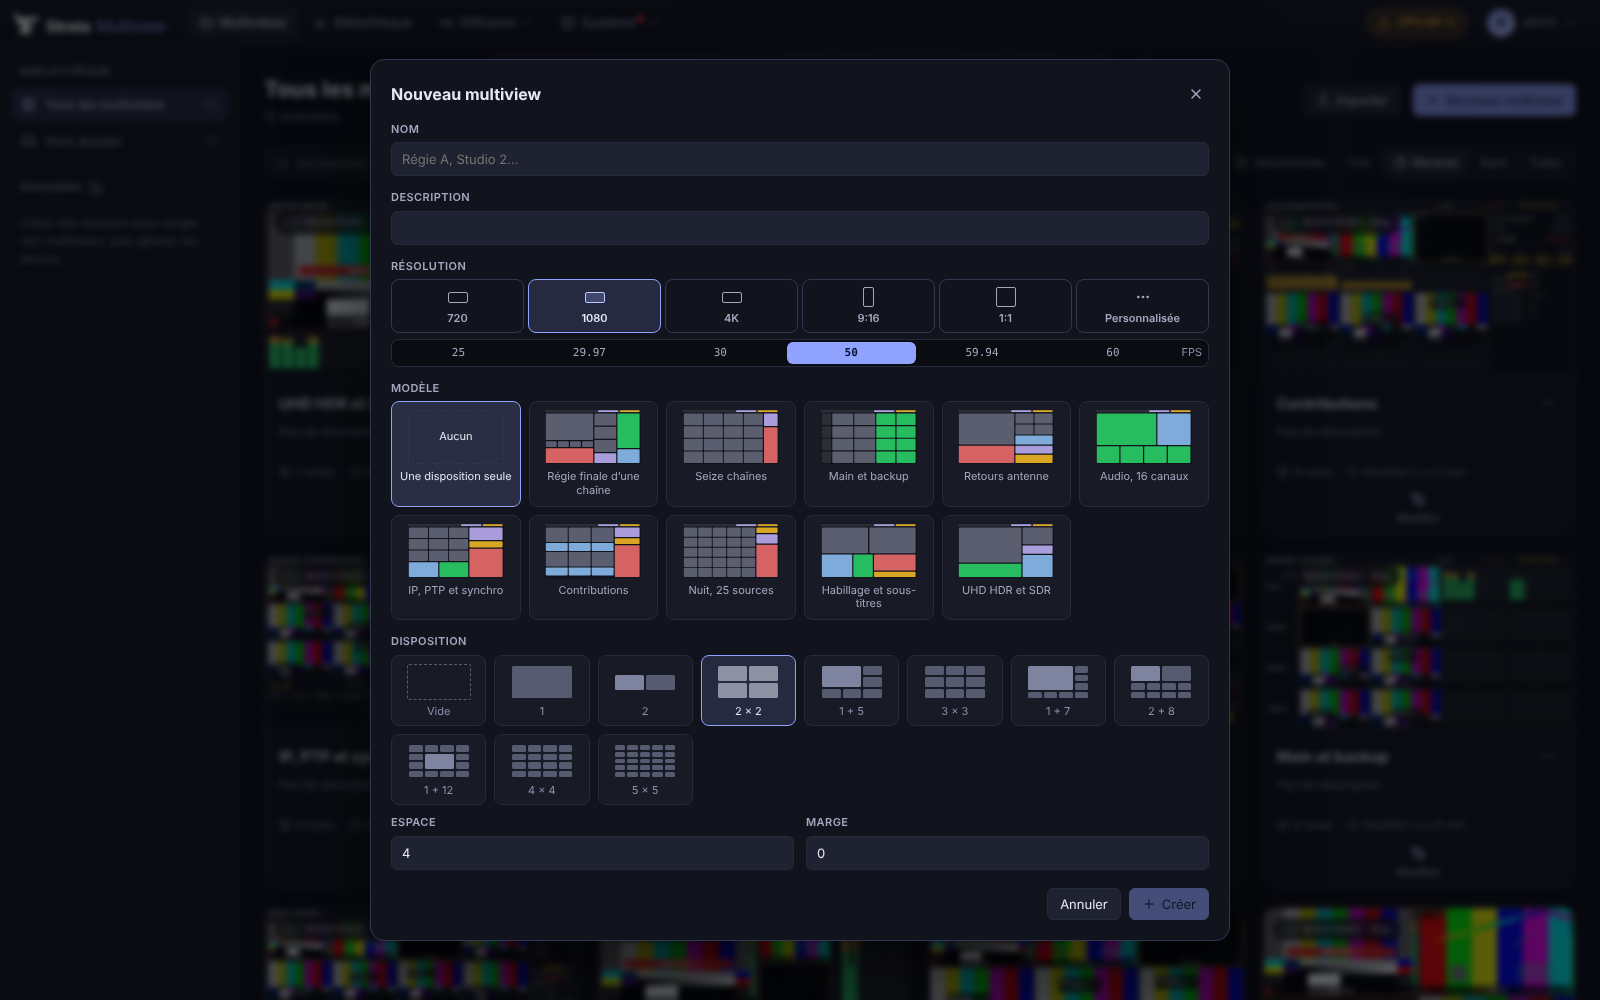
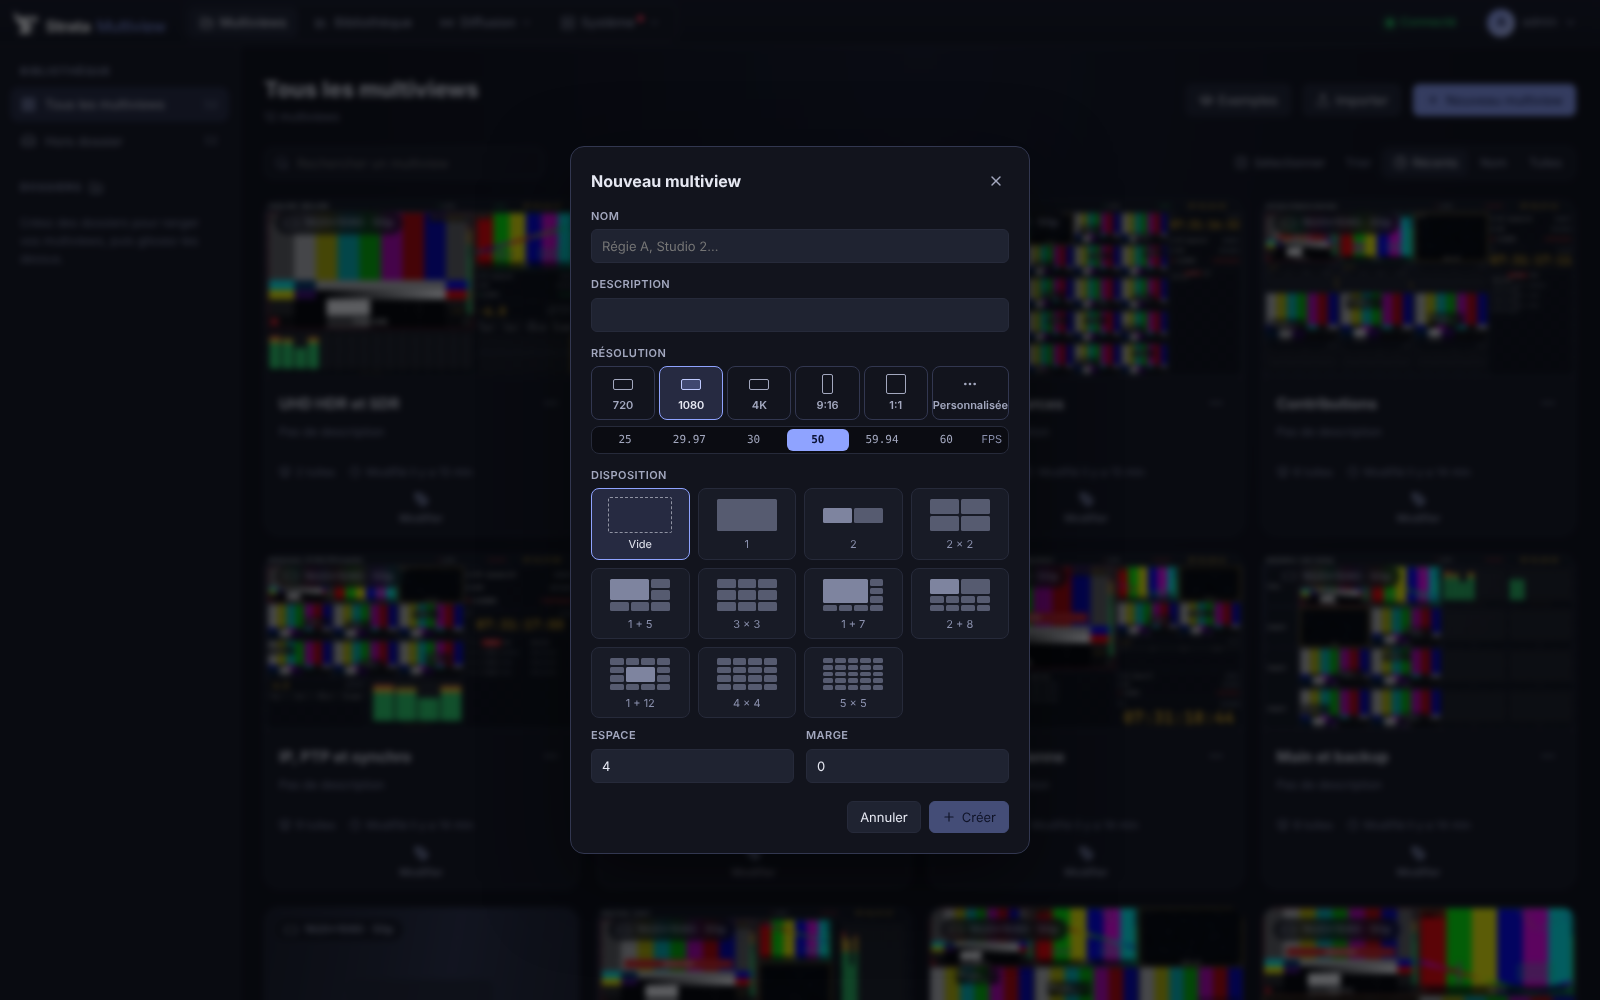
Docs: examples, the input submenu, the contents of the inputs
Claude-Session: https://claude.ai/code/session_01YNigYBVkBUfYF1kZKq6KJ5

diff --git a/README.md b/README.md
@@ -37,9 +37,9 @@ Strata Multiview reprend le design, le Designer et le moteur de rendu de Strata 
  Designer ──► multiviews publiés ──► chaîne ──► sorties (HTML5 · NDI · Stream · SDI · ST 2110)
 ```
 
-- Les **entrées en direct** sont décodées en continu ; leur audio est mesuré canal par canal et en loudness EBU R128 ; leur image est surveillée (noir, image figée) ; une entrée qui tombe lève une alarme.
+- Les **entrées en direct** sont décodées en continu, et **analysées** : conteneur, programmes et EPG, codecs, images, timecode, sous-titres codés, tables MPEG-TS et TR 101 290, listes HLS, ANC SDI ; leur audio est mesuré canal par canal et en loudness EBU R128 ; leur image est surveillée (noir, image figée) ; une entrée qui tombe lève une alarme.
 - Le **tally** et les **UMD** viennent des mélangeurs et des contrôleurs de tally, aiguillés vers les entrées.
-- Le **Designer** compose les multiviews : un des **dix modèles** de régie de diffusion ou une **disposition** (2 × 2, 3 × 3, 1 + 5…) de **tuiles Source**, puis les widgets de supervision (vu-mètres 16 canaux, loudness, timecode, état, journal des alarmes), des horloges, des logos et des textes.
+- Le **Designer** compose les multiviews : vide, sur une **disposition** (2 × 2, 3 × 3, 1 + 5…) de **tuiles Source**, ou à partir d'un des **dix exemples** de régie de diffusion, puis les widgets de supervision (vu-mètres 16 canaux, loudness, timecode, état, journal des alarmes), des horloges, des logos et des textes.
 - Une **chaîne** montre un multiview publié et l'envoie vers ses destinations.
 
 ### 1.2 Les pages
@@ -96,7 +96,7 @@ Guide complet, dossiers de données, pare-feu, proxy : [`docs/INSTALL.md`](docs/
 
 1. Ouvrez `http://<serveur>:8090`. Sur le serveur lui-même, la page propose de **créer le compte administrateur** ; à distance, utilisez `strata-mv-server user add admin`.
 2. **Diffusion › Entrées vidéo** : déclarez les sources (caméras en SDI, flux SRT d'un encodeur, sources NDI du réseau…).
-3. **Multiviews › Nouveau multiview** : nommez-le, choisissez sa résolution puis un **modèle** (régie finale, 16 chaînes, retours antenne…) ou une simple **disposition** (2 × 2, 1 + 5, 4 × 4…). Les tuiles et les widgets sont créés, les tuiles reçoivent les entrées dans l'ordre, et le multiview s'ouvre dans le **Designer**.
+3. **Multiviews › Nouveau multiview** : nommez-le, choisissez sa résolution, partez d'une page **vide** ou d'une **disposition** (2 × 2, 1 + 5, 4 × 4…) dont les tuiles reçoivent les entrées dans l'ordre. Le multiview s'ouvre dans le **Designer**. Pour partir d'un multiview de régie complet : **Multiviews › Exemples**.
 4. Ajustez les tuiles (entrée, UMD, vu-mètres, timecode, loudness), ajoutez des widgets, un logo, un titre, puis **Publiez**.
 5. **Diffusion › Flux vidéo** : choisissez le **multiview à l'antenne** de la chaîne : il passe aussitôt à l'antenne. Ajoutez les destinations (HTML5, NDI, SDI, ST 2110, flux).
 6. **Diffusion › Tally et UMD** : ajoutez la régie (TSL, ATEM ou GPI) et reliez ses afficheurs aux entrées.
@@ -114,18 +114,20 @@ La sortie HTML5 de la chaîne principale est sur `http://<serveur>:8090/output/m
 ### 4.1 L'espace de travail
 
 - **En haut** : le nom du multiview, annuler / rétablir, l'historique des versions et **Publier**.
-- **Au centre** : la **scène** (règles, repères, zones de sécurité, fond) avec la barre d'outils : **Disposition**, **Source** (une tuile), les formes et les textes, **+** (vu-mètres, loudness, timecode, état, journal des alarmes, bandeau, horloge, temps), **Affichage**, zoom. Les tuiles y montrent les entrées en direct, leur tally et leurs vu-mètres. Un clic sélectionne, un glisser déplace ; clic droit : copier, couper, coller, dupliquer, ordre, supprimer.
+- **Au centre** : la **scène** (règles, repères, zones de sécurité, fond) avec la barre d'outils : **Disposition**, **Source** (une tuile), les formes et les textes, **+** (vu-mètres, loudness, timecode, état, journal des alarmes, bandeau, horloge, temps), **Affichage**, zoom. Les tuiles y montrent les entrées en direct, leur tally et leurs vu-mètres. Un clic sélectionne, un glisser déplace ; clic droit : **Entrée** (sur une tuile, des vu-mètres, un loudness ou un timecode : l'entrée à montrer, celles qui reçoivent marquées d'un point vert), copier, couper, coller, dupliquer, ordre, supprimer.
+
+![Clic droit sur une tuile : changer d'entrée](docs/screenshots/input-menu.png)
 - **À droite** : l'inspecteur de l'élément sélectionné ; sans sélection, le multiview lui-même (résolution, ses tuiles, ses réglages).
 
 Un multiview s'édite directement : une seule page, ni calques, ni timeline, ni animation. Ce qui bouge vient des sources (images, tally, vu-mètres, loudness, alarmes) et des widgets eux-mêmes (timecode, horloges, bandeau défilant).
 
-### 4.2 Modèles
+### 4.2 Exemples
 
-![Nouveau multiview : les modèles](docs/screenshots/new-multiview.png)
+![Les exemples](docs/screenshots/examples.png)
 
-**Nouveau multiview** propose dix modèles dessinés pour la **régie de diffusion** (pas de production). Chacun est un point de départ : tout y reste modifiable dans le Designer.
+Comme dans Strata Graphics, la page **Multiviews** propose des **Exemples** : dix multiviews dessinés pour la **régie de diffusion** (pas de production). **Ajouter à mes multiviews** en fait une copie, dont les tuiles prennent les entrées du serveur dans l'ordre, et l'ouvre dans le Designer : tout y reste modifiable. Un nouveau multiview, lui, part d'une page vide ou d'une disposition.
 
-| Modèle | Contenu |
+| Exemple | Contenu |
 | --- | --- |
 | **Régie finale d'une chaîne** | PGM (timecode, loudness, alarmes), PVW, playout A et B, quatre retours, 16 canaux audio, loudness, état, journal |
 | **Seize chaînes** | 4 × 4 chaînes avec leur loudness et leurs alarmes, l'état de l'installation et le journal |
@@ -138,13 +140,15 @@ Un multiview s'édite directement : une seule page, ni calques, ni timeline, ni 
 | **Habillage et sous-titres** | le programme avant et après habillage, son loudness, son audio et le journal |
 | **UHD HDR et SDR** | le programme UHD et sa conversion SDR, le loudness, 16 canaux, l'état de l'installation |
 
-Les modèles sont dessinés en 1920 × 1080 et mis à l'échelle de la résolution choisie ; leurs tuiles prennent les entrées dans l'ordre.
+Les exemples sont des fichiers `crates/strata-mv-server/examples/ex-NN-*.json` embarqués dans le serveur (1920 × 1080, 50 i/s) ; leurs tuiles lisent `{{input:N}}`, la N-ième entrée du serveur.
 
 ![Le modèle « Régie finale » rendu par le moteur Rust](docs/screenshots/model-final.png)
 
 ![Le modèle « Seize chaînes » : les entrées absentes montrent la mire](docs/screenshots/model-sixteen.png)
 
 ### 4.3 Dispositions
+
+![Nouveau multiview : vide ou une disposition](docs/screenshots/new-multiview.png)
 
 Une **disposition** place les tuiles Source sur une grille, avec un **espace** entre elles et une **marge** autour :
 
@@ -155,7 +159,7 @@ Une **disposition** place les tuiles Source sur une grille, avec un **espace** e
 | **2 + 8** | deux grandes en haut, huit petites en dessous |
 | **1 + 12** | une grande au centre, douze autour |
 
-Elle se choisit à la création d'un multiview (« Une disposition seule »), ou s'applique ensuite par le bouton **Disposition** : les tuiles existantes sont replacées dans l'ordre de lecture, les manquantes sont ajoutées avec les entrées qu'aucune tuile ne montre encore. Chaque tuile reste ensuite libre (position, taille, réglages).
+Elle se choisit à la création d'un multiview (« Vide » par défaut), ou s'applique ensuite par le bouton **Disposition** : les tuiles existantes sont replacées dans l'ordre de lecture, les manquantes sont ajoutées avec les entrées qu'aucune tuile ne montre encore. Chaque tuile reste ensuite libre (position, taille, réglages).
 
 ### 4.4 Les widgets
 
@@ -301,7 +305,28 @@ Quand aucun multiview n'est chargé, la chaîne envoie une **mire**. Une **avanc
 
 Les **entrées en direct** : SRT, UDP, RTMP, HLS, RTSP, toute URL lue par ffmpeg, **NDI** (sources découvertes sur le réseau) et **SDI** (DeckLink). Chaque entrée est décodée à la taille et à la cadence de la source, avec un tampon de lissage réglable ; la page montre une vignette, l'état, les images reçues et les pertes. Une entrée qui tombe se reconnecte seule.
 
-### 8.3 Matériel et synchronisation
+### 8.3 Contenu du signal
+
+![Contenu du signal : programmes et EPG](docs/screenshots/analysis-epg.png)
+
+Sous les vignettes, le **contenu du signal** de l'entrée choisie, quelle que soit sa source, rafraîchi toutes les deux secondes :
+
+| Onglet | Ce qu'on y lit |
+| --- | --- |
+| **Présentation** | conteneur et débit, vidéo, pistes audio, sous-titres et sous-titres codés, données, timecode, GOP, état TR 101 290, programme à l'antenne, SCTE-35, variantes HLS |
+| **Programmes et EPG** | chaque programme (service) : nom, fournisseur, type, en clair ou embrouillé (systèmes d'accès conditionnel), **EPG** en cours et suivant (titre, horaire, durée, résumé, genre, âge minimum, avancement), ses flux |
+| **Flux** | chaque flux et son PID : codec, profil et niveau (lus dans le SPS H.264 / HEVC), image (taille, rapport, cadence, balayage TFF/BFF/progressif, échantillonnage et profondeur, plage, couleurs, **HDR** PQ/HLG), sous-titres codés A/53, audio (fréquence, canaux, format), langue, débit, descripteurs (pages télétexte, sous-titres DVB, CEA-608/708, AC-3, audiodescription…) |
+| **Images** | types I / P / B, **GOP**, balayage, format décodé, **timecode** (SEI SMPTE 12-1 ou de GOP : il alimente aussi le timecode des tuiles), CC A/53, AFD, mastering display, MaxCLL/MaxFALL, et toutes les données annexes des images |
+| **Transport (TS)** | débit, TS id, réseau, heure du flux (TDT/TOT), tables vues (PAT, PMT, SDT, NIT, EIT, CAT), **TR 101 290** (priorités 1 et 2, SDT et EIT), chaque **PID** (contenu, débit, erreurs de continuité, PCR, embrouillage), **SCTE-35** (splice_insert, time_signal, segmentation, durée, sens) |
+| **HLS** | liste principale et ses **variantes** (débit, résolution, cadence, codecs, plage dynamique, groupes), rendus audio / sous-titres / CC, liste de médias (direct, EVENT ou VOD, segments, fenêtre, format TS ou fMP4, program date time, discontinuités, chiffrement, LL-HLS, marqueurs publicitaires) |
+| **NDI** | format, rapport d'image, balayage, timecode, audio, métadonnées XML de la source et des trames |
+| **SDI** | format, signal détecté (YCbCr 4:2:2 / RGB 4:4:4, profondeur), balayage, couleurs, HDR, timecode RP 188 / VITC, audio embarqué, **paquets auxiliaires** (ANC : DID/SDID, ligne, nature : CEA-708, AFD, SCTE-104, OP-47, timecode ATC…) |
+
+Les entrées **SRT, UDP et TCP** passent par un relais : un premier ffmpeg reçoit le flux tel quel, Strata lit son flux de transport au passage (tables, EPG, SCTE-35, TR 101 290) et le transmet au décodeur. Une entrée **HLS** est lue par ses listes de lecture et le dernier segment de sa première variante (relu à la demande, au plus toutes les 30 s). **RTMP** et **RTSP** n'ont pas de flux de transport : leur contenu vient du décodeur.
+
+![Contenu du signal : transport et TR 101 290](docs/screenshots/analysis-ts.png)
+
+### 8.4 Matériel et synchronisation
 
 - **SDI · DeckLink** : cartes détectées, rôle de chaque connecteur (sortie, entrée, référence).
 - **SMPTE ST 2110** : flux déclarés, interfaces, PTP.
@@ -335,7 +360,8 @@ La page **Système › API** documente toute l'API (OpenAPI 3.1, aussi sur `/api
 | `PUT` `DELETE` `POST` | `/api/projects/{id}/templates/{tid}` · `/publish` | multiviews, publication |
 | `GET` `PUT` | `/api/channels` · `/{id}/state` · `/{id}/project` · `/{id}/multiview` · `/{id}/preview.png` | chaînes, multiview à l'antenne, rendu du programme |
 | `GET` `PUT` `DELETE` | `/api/tally` · `/api/tally/config` · `/api/tally/inputs/{entrée}` · `/api/tally/gpi/{source}/{contact}/{on\|off}` | tally et UMD |
-| `GET` | `/api/inputs` · `/api/inputs/{id}/live.mjpeg` | entrées et leurs images |
+| `GET` | `/api/inputs` · `/api/inputs/{id}/live.mjpeg` · `/api/inputs/{id}/analysis` | entrées, leurs images et ce qu'elles transportent |
+| `GET` `POST` | `/api/examples` · `/api/examples/{id}` · `/api/examples/{id}/cover.png` | exemples de multiviews |
 | `GET` | `/api/outputs/status` · `/api/system/metrics` · `/api/health` | supervision |
 | `WS` | `/ws` · `/ws?channel={id}` | évènements temps réel (multiviews, chaînes ; signaux des entrées : niveaux, loudness, timecode, alarmes ; état PTP / NTP et journal) |
 

diff --git a/docs/ARCHITECTURE.md b/docs/ARCHITECTURE.md
@@ -61,8 +61,10 @@ Le serveur repose sur axum et tokio.
 
 - **Chaînes** : chaque chaîne a sa tâche d'horloge, son `ChannelState` et son thread de rendu. Charger un multiview (`PUT /api/channels/{id}/project`) met sa page publiée à l'antenne (`show_multiview`) ; une publication met à l'antenne des chaînes qui attendaient.
 - **Entrées** (`inputs.rs`) : un fil par entrée. Les flux passent par ffmpeg : l'image en RGBA sur sa sortie standard, l'audio de la première piste mesuré par `ebur128` puis `astats`, dont les valeurs sont lues dans son journal (`MeterLog`) ; une source sans audio est relancée sans mesure. NDI et SDI mesurent leur audio eux-mêmes (le loudness par la crate `ebur128`) ; NDI donne aussi son timecode.
+- **Contenu des entrées** (`probe/`) : ce que chaque entrée transporte, tenu à jour pendant qu'elle tourne (`Facts`) et lu par `GET /api/inputs/{id}/analysis`. Les flux SRT, UDP et TCP sont **relayés** : un premier ffmpeg (`-f data`) reçoit les octets, Strata les lit au passage (`probe/ts.rs` : PAT, PMT et descripteurs, SDT, NIT, EIT en cours / suivant, TDT/TOT, SCTE-35, SPS H.264/HEVC, débit, continuité, PCR et embrouillage de chaque PID, contrôles TR 101 290) puis les passe au ffmpeg qui décode. Ce dernier décrit l'entrée à son ouverture (`probe/banner.rs`) et chaque image par le filtre `showinfo` (`probe/frames.rs` : I/P/B, GOP, balayage, couleurs, données annexes, timecode SEI ou de GOP, qui alimente aussi les tuiles). HLS : listes de lecture et dernier segment (`probe/hls.rs`). NDI : format et métadonnées. SDI : `dl_input_info` du pont DeckLink (format détecté, timecode RP 188/VITC, HDR, paquets ANC).
 - **Signaux** (`signals.rs`) : tally, niveaux, loudness et timecode par entrée ; les vu-mètres montent aussitôt, descendent de 24 dB/s, maintiennent la crête 2 s. Chaque image reçue laisse une empreinte de luminance 8 × 8 qui détecte le noir et l'image figée ; `evaluate` lève et clôt les alarmes (perte, noir, figée, silence, trop fort, crête) et tient le journal (200 lignes). PTP et NTP viennent de la supervision de la synchro. Le moteur les lit par `Inputs::source` et `Inputs::system` ; les navigateurs les reçoivent en évènements `signals` (`{sources, system}`, toutes les 80 ms au plus, quand ils changent).
 - **Tally** (`tally/`) : une tâche par source (TSL en UDP, TCP en écoute ou en client ; ATEM en UDP 9910 ; GPI par l'API), l'état de leurs afficheurs, l'aiguillage vers les entrées et les consignes de l'API. Réglages dans `tally.json`, appliqués à chaud ; le tally vit en dehors du cycle du moteur et survit à ses redémarrages.
+- **Exemples** (`examples.rs`) : les dix multiviews de régie de diffusion, fichiers `examples/ex-NN-*.json` embarqués (`build.rs`), copiés en multiviews de l'utilisateur, leurs tuiles sur les entrées du serveur (`{{input:N}}`).
 - **Multiviews** : la bibliothèque `data/projects/<id>.json` est écrite de façon atomique ; un nouveau multiview naît avec sa page, déjà publiée. Le multiview chargé sur chaque chaîne est mémorisé dans `config.json`.
 - **Utilisateurs** : `users.json` stocke des hachages Argon2. Chaque route vérifie le rôle de l'appelant et son périmètre de multiviews et de chaînes.
 - **Redémarrage à chaud** : une modification des réglages reconstruit les chaînes et le listener sans arrêter le processus ; les entrées et le tally continuent.
